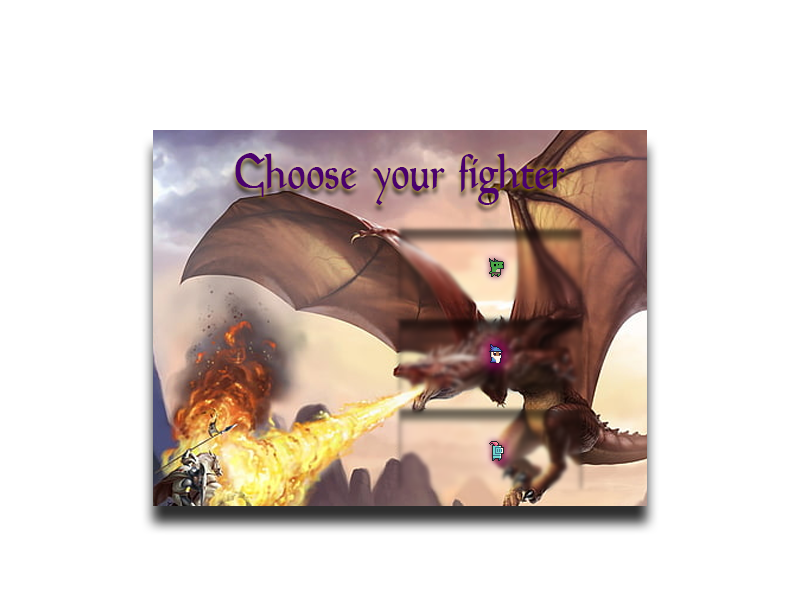
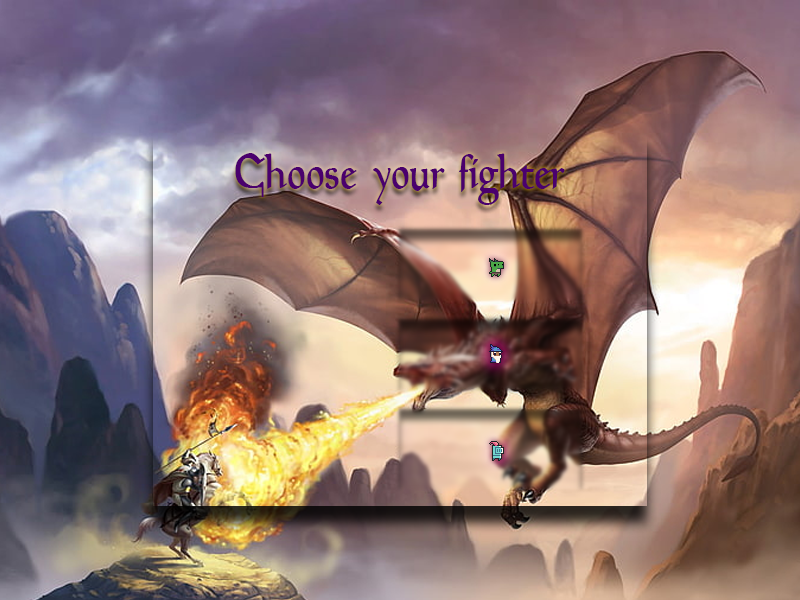
feat: add class selection refactor: fix class menu

diff --git a/src/game_state_class_menu.cpp b/src/game_state_class_menu.cpp
@@ -1,0 +1,123 @@
+#include <SFML/Graphics.hpp>
+
+#include "game_state_class_menu.h"
+#include "game_state_start.hpp"
+#include "game_state_play.hpp"
+#include "game_state.hpp"
+
+GameStateClassMenu::GameStateClassMenu(Game* game)
+{
+    this->game = game;
+    sf::Vector2f pos = sf::Vector2f(this->game->window.getSize());
+    this->view.setSize(pos);
+    pos *= 0.5f;
+    this->view.setCenter(pos);
+
+    this->background.setTexture(this->game->texmgr.getRef("choose_class"));
+
+    sf::RectangleShape shape;
+    sf::Vector2f dimensions(180, 70);
+    shape.setSize(dimensions);
+
+    GuiEntry dino = GuiEntry("dino_menu",
+        shape,
+        &this->game->texmgr.getRef("dino_menu"),
+        &this->game->texmgr.getRef("dino_highlight"),
+        &this->game->texmgr.getRef("dino_press"));
+
+    GuiEntry knight = GuiEntry("knight_menu",
+        shape,
+        &this->game->texmgr.getRef("knight_menu"),
+        &this->game->texmgr.getRef("knight_highlight"),
+        &this->game->texmgr.getRef("knight_press"));
+
+    GuiEntry mage = GuiEntry("mage_menu",
+        shape,
+        &this->game->texmgr.getRef("mage_menu"),
+        &this->game->texmgr.getRef("mage_highlight"),
+        &this->game->texmgr.getRef("mage_press"));
+
+    std::vector<GuiEntry> entries{ dino, knight, mage };
+
+    Gui gui = Gui(dimensions, entries);
+    gui.setPosition(pos);
+    gui.setOrigin(181, 70);
+    gui.show();
+
+    this->guiSystem.emplace("menu", gui);
+}
+
+GameStateClassMenu::~GameStateClassMenu()
+{
+
+}
+
+void GameStateClassMenu::update(const sf::Time dt) {
+
+}
+
+void GameStateClassMenu::handleInput() {
+    sf::Event event;
+    sf::Vector2f mousePos = this->game->window.mapPixelToCoords(sf::Mouse::getPosition(this->game->window), this->view);
+
+    while (this->game->window.pollEvent(event)) {
+        switch (event.type) {
+            // Close the window
+        case sf::Event::Closed:
+            this->game->window.close();
+            break;
+            // Highlight menu items
+        case sf::Event::MouseMoved:
+            this->guiSystem.at("menu").highlight(this->guiSystem.at("menu").getEntry(mousePos));
+            break;
+            // Click on menu items
+        case sf::Event::MouseButtonPressed:
+            if (event.mouseButton.button == sf::Mouse::Left)
+                this->guiSystem.at("menu").press(this->guiSystem.at("menu").getEntry(mousePos));
+            break;
+            // Release menu items
+        case sf::Event::MouseButtonReleased:
+            if (event.mouseButton.button == sf::Mouse::Left) {
+                std::string msg = this->guiSystem.at("menu").activate(mousePos);
+
+                if (msg == "dino_menu")
+                    this->startgame();
+
+                if (msg == "knight_menu")
+                    this->startgame();
+
+                if (msg == "mage_menu")
+                    this->startgame();
+
+            }
+            break;
+            // Close the window (Escape)
+        case sf::Event::KeyPressed:
+            if (event.key.code == sf::Keyboard::Escape)
+                this->game->window.close();
+            break;
+        default:
+            break;
+        }
+    }
+
+    return;
+}
+
+void GameStateClassMenu::draw(const sf::Time dt) {
+    this->game->window.setView(this->view);
+
+    this->game->window.clear(sf::Color::Black);
+    this->game->window.draw(this->background);
+
+    for (auto gui : this->guiSystem)
+        this->game->window.draw(gui.second);
+
+    return;
+}
+
+void GameStateClassMenu::startgame() {
+    this->game->pushState(new GameStatePlay(this->game));
+
+    return;
+}

diff --git a/src/game.cpp b/src/game.cpp
@@ -93,9 +93,24 @@ void Game::loadTextures() {
     texmgr.loadTexture("quit_highlight",    "assets/menu/quit_highlight.png");
     texmgr.loadTexture("quit_press",        "assets/menu/quit_press.png");
 
+    // Choose class UI
+    texmgr.loadTexture("choose_class",      "assets/menu/choose_class.png");
+
+    texmgr.loadTexture("dino_menu",              "assets/menu/dino.png");
+    texmgr.loadTexture("dino_highlight",    "assets/menu/dino_highlight.png");
+    texmgr.loadTexture("dino_press",        "assets/menu/dino_press.png");
+
+    texmgr.loadTexture("knight_menu",            "assets/menu/knight.png");
+    texmgr.loadTexture("knight_highlight",  "assets/menu/knight_highlight.png");
+    texmgr.loadTexture("knight_press",      "assets/menu/knight_press.png");
+
+    texmgr.loadTexture("mage_menu",              "assets/menu/mage.png");
+    texmgr.loadTexture("mage_highlight",    "assets/menu/mage_highlight.png");
+    texmgr.loadTexture("mage_press",        "assets/menu/mage_press.png");
+
     texmgr.loadTexture("menu_background",   "assets/menu/background.png");
     texmgr.loadTexture("game_background",   "assets/game/background.png");
-    
+    //
     texmgr.loadTexture("map_1",             "assets/game/maps/map_1.png");
     texmgr.loadTexture("map_2",             "assets/game/maps/map_2.png");
     //Characters, tiny and normal enemies --> 24x24

diff --git a/src/game_state_start.cpp b/src/game_state_start.cpp
@@ -1,6 +1,7 @@
 #include <SFML/Graphics.hpp>
 
 #include "game_state_start.hpp"
+#include "game_state_class_menu.h"
 #include "game_state_play.hpp"
 #include "game_state.hpp"
 
@@ -81,7 +82,7 @@ void GameStateStart::handleInput() {
                 std::string msg = this->guiSystem.at("menu").activate(mousePos);
 
                 if (msg == "start_game")
-                    this->startgame();
+                    this->chooseclass();
 
                 if (msg == "quit_game")
                     this->game->window.close();
@@ -101,6 +102,7 @@ void GameStateStart::handleInput() {
 }
 
 void GameStateStart::update(const sf::Time dt) {
+
 }
 
 void GameStateStart::draw(const sf::Time dt) {
@@ -115,8 +117,10 @@ void GameStateStart::draw(const sf::Time dt) {
     return;
 }
 
-void GameStateStart::startgame() {
-    this->game->pushState(new GameStatePlay(this->game));
 
-    return;
+void GameStateStart::chooseclass()
+{
+    this->game->pushState(new GameStateClassMenu(this->game));
 }
+
+

diff --git a/src/game_state_class_menu.h b/src/game_state_class_menu.h
@@ -1,28 +1,30 @@
-#ifndef GAME_STATE_START_HPP
-#define GAME_STATE_START_HPP
+#ifndef GAME_STATE_CLASS_MENU_HPP
+#define GAME_STATE_CLASS_MENU_HPP
 
 #include <SFML/Graphics.hpp>
 #include <map>
 #include <string>
 
 #include "game_state.hpp"
+#include "game_state_start.hpp"
 #include "gui.hpp"
 
-class GameStateStart : public GameState {
-  private:
+class GameStateClassMenu : public GameState
+{
+private:
     sf::View view;
 
     std::map<std::string, Gui> guiSystem;
 
-    void chooseclass();
+    void startgame();
 
-  public:
-    GameStateStart(Game* game);
-    ~GameStateStart();
+public:
+    GameStateClassMenu(Game* game);
+    ~GameStateClassMenu();
 
     virtual void handleInput();
     virtual void update(const sf::Time dt);
     virtual void draw(const sf::Time dt);
 };
 
-#endif // GAME_STATE_START_HPP
+#endif // GAME_STATE_CLASS_MENU_HPP
